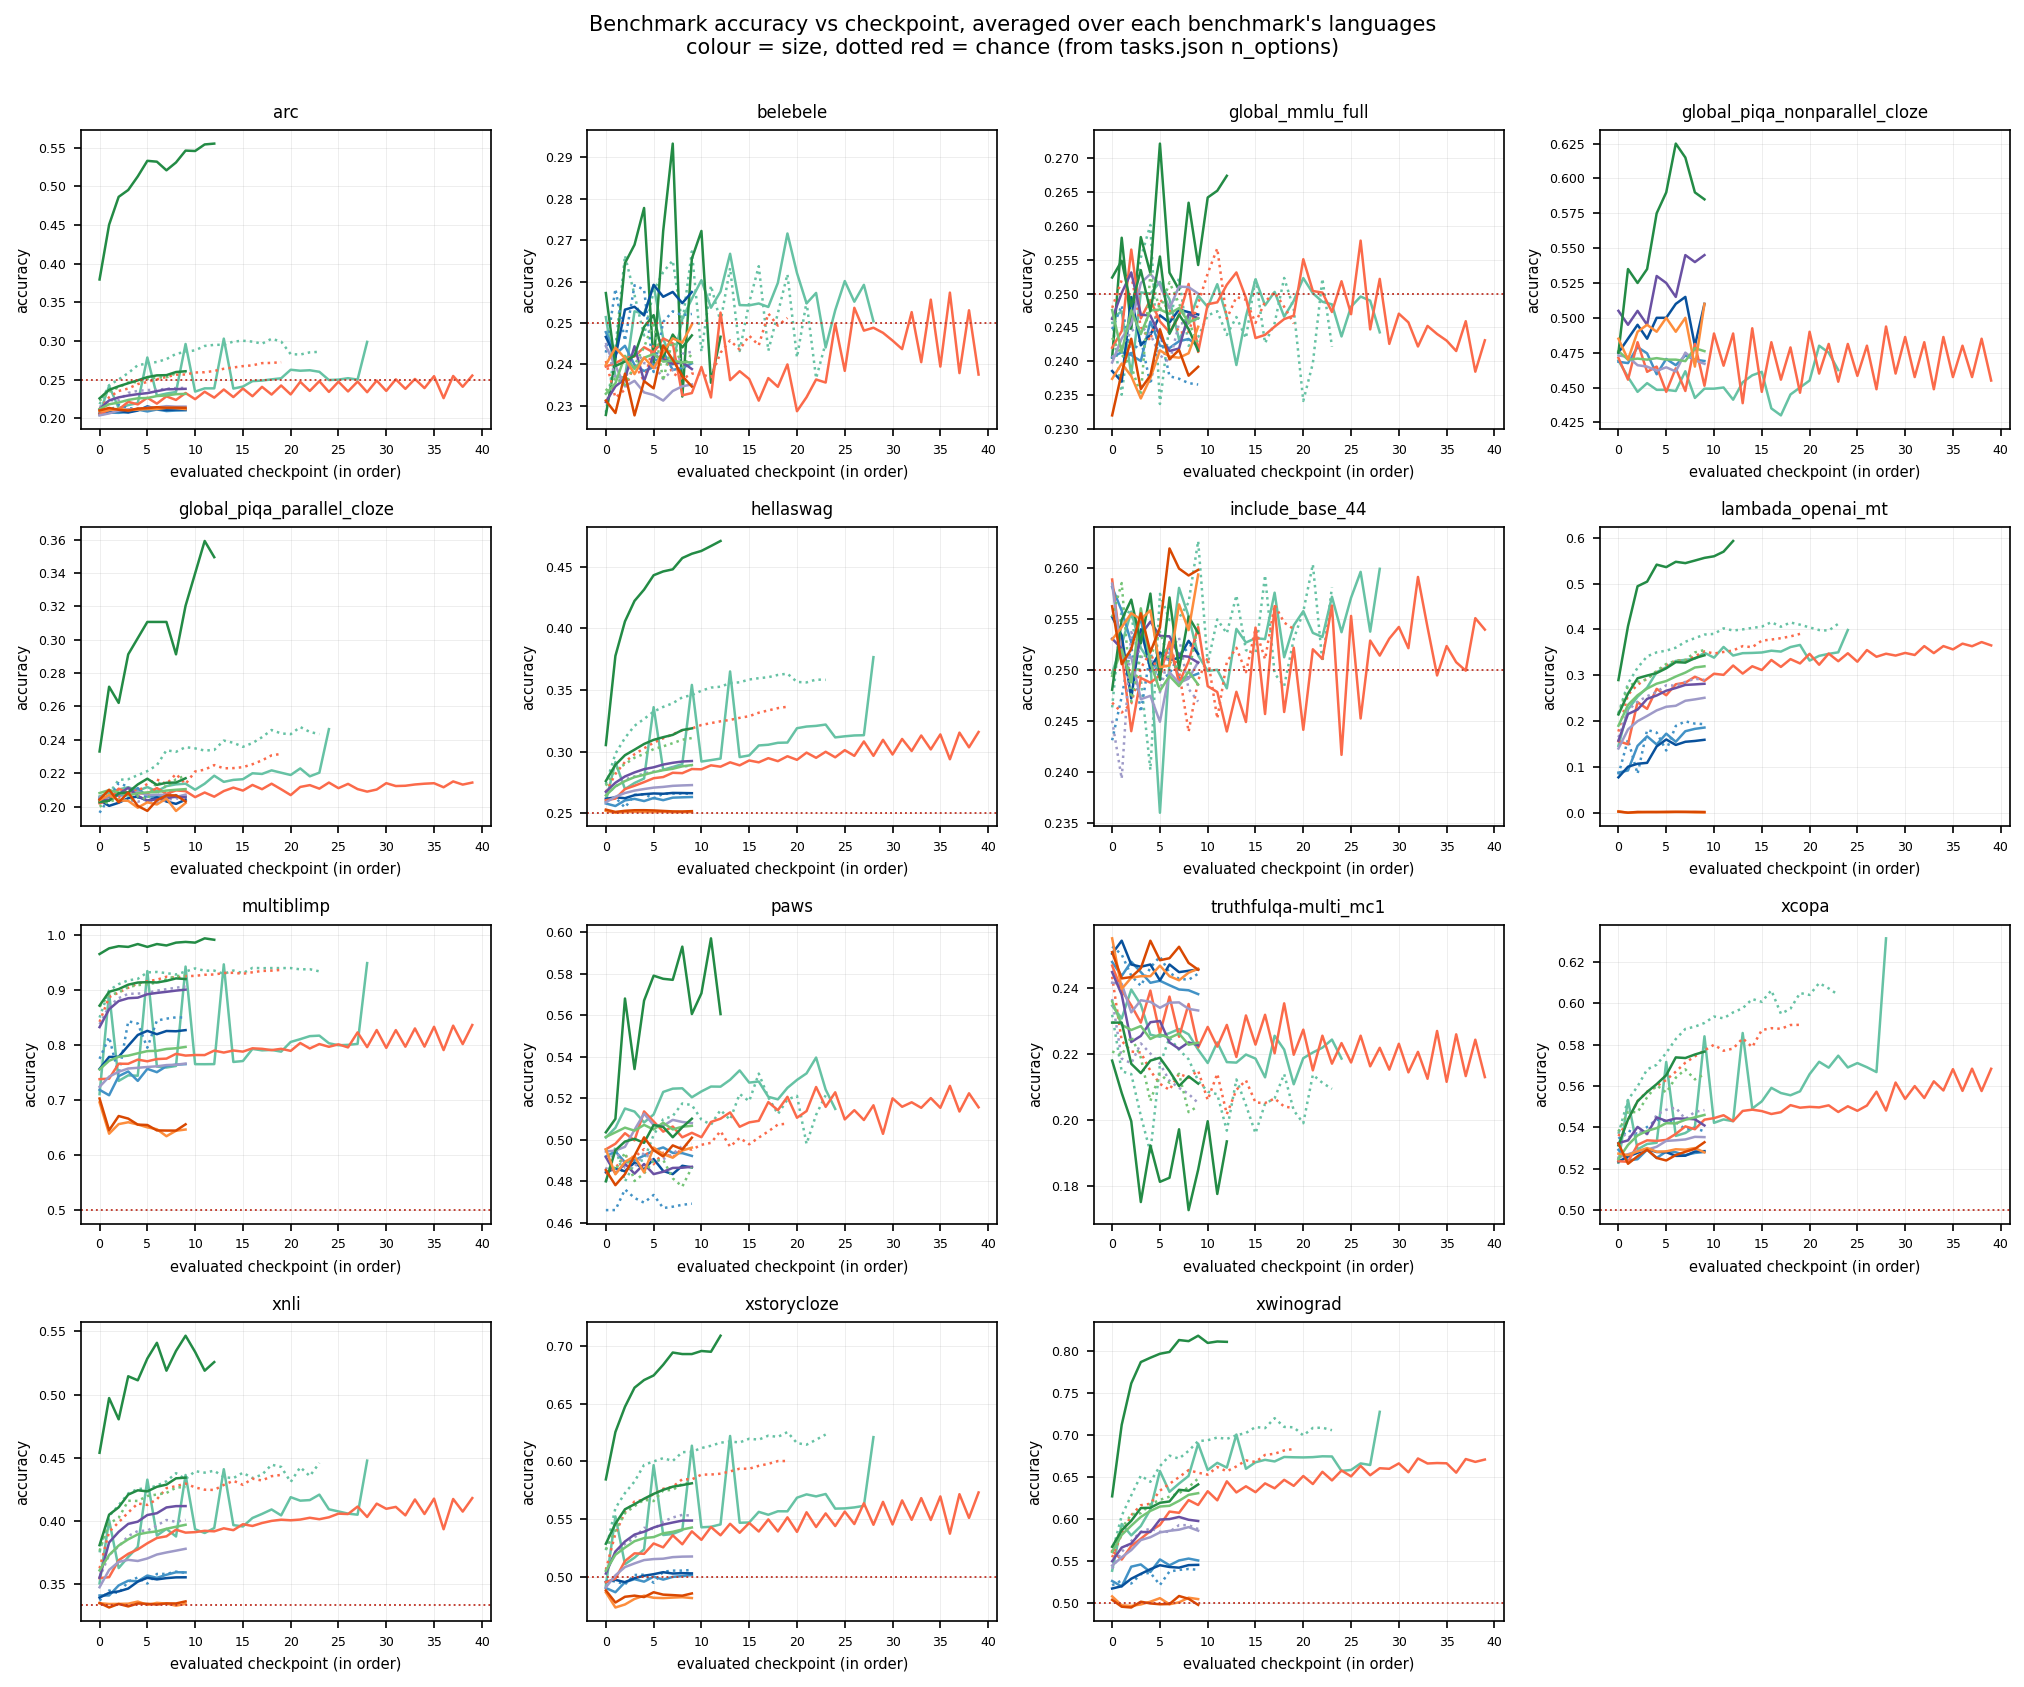
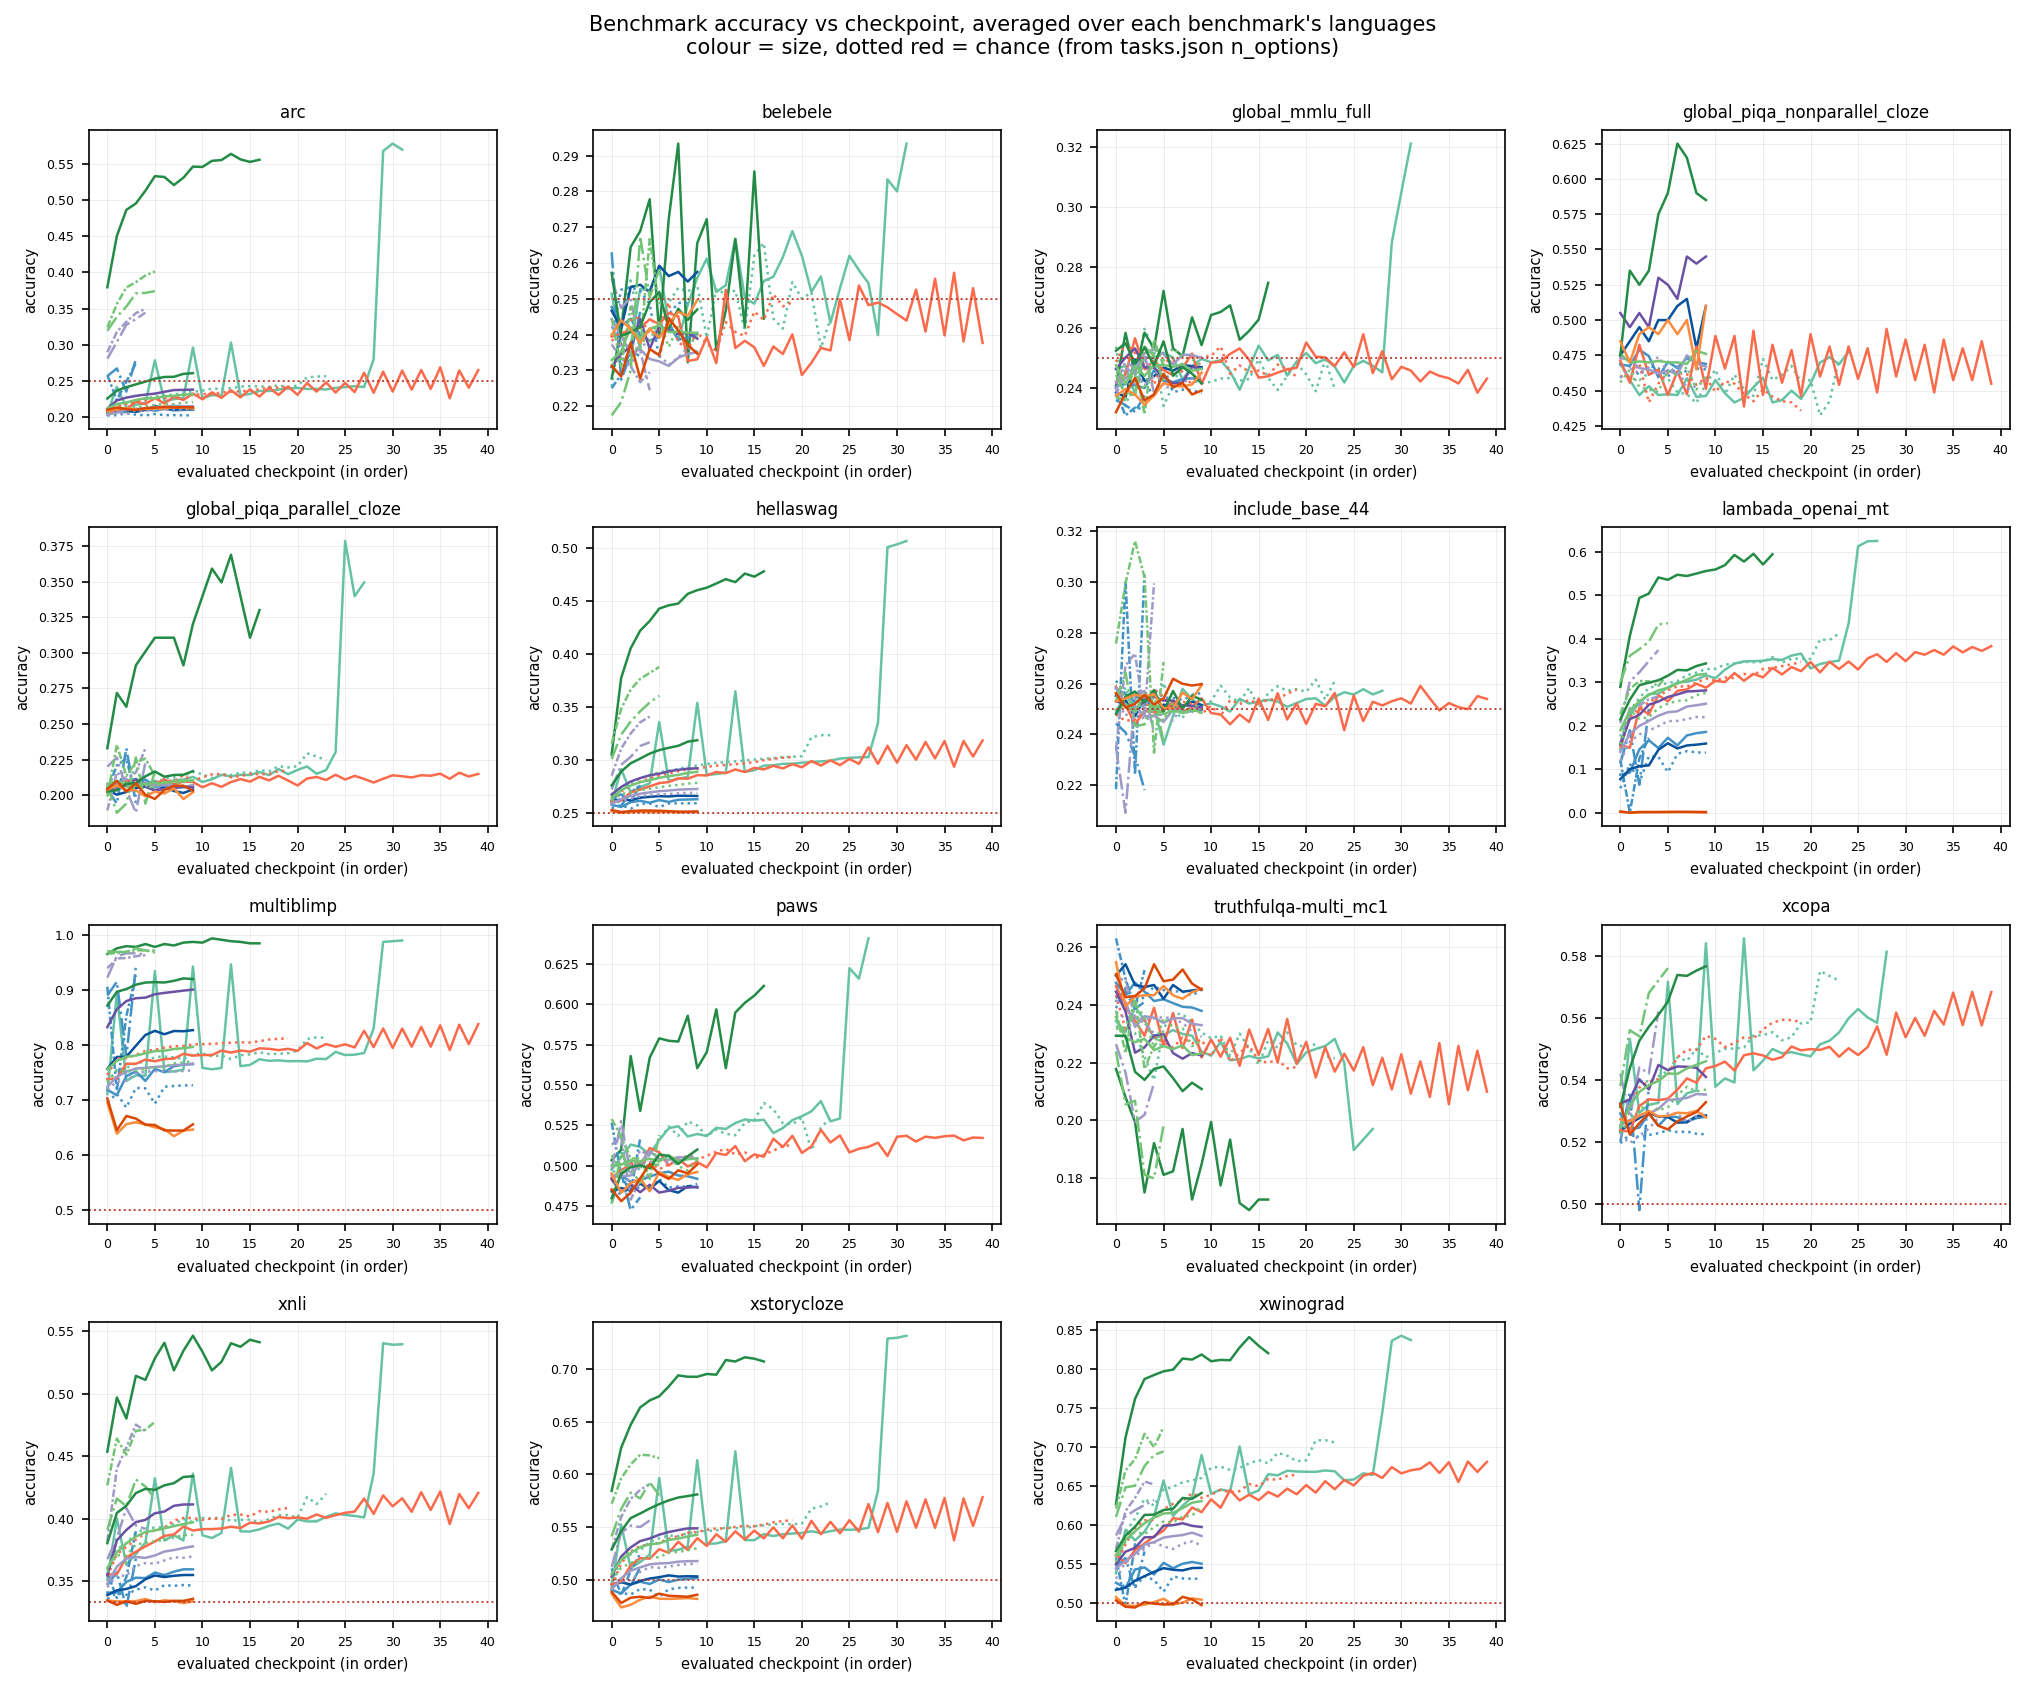
update progress

diff --git a/plan/todos/status-09-11.md b/plan/todos/status-09-11.md
@@ -6,7 +6,8 @@ Download missing GL tasks:
 ✅ python3.11 evals/scripts/download_eval_datasets.py
 
 Resubmit with --all-languages:
-python3.11 auto_evals_cscs.py --arch deep --scheme A --seed 1904 --all-languages
+✅ python3.11 pretrain/auto_evals_cscs.py --arch deep --scheme A --seed 1904 --all-languages
+✅ python3.11 pretrain/auto_evals_cscs.py --arch deep --scheme B --seed 1904 --all-languages
 squeue --me -h -o '%i|%j' | awk -F'|' '$2 ~ /90M/ {print $1}' | xargs -r scancel
 
 Cancel requeued jobs for ZH and ES since they are built:
@@ -16,20 +17,36 @@ Launch 175M-600M pretraining of ZH and ES:
 ✅ python3.11 pretrain/launch_trainings.py cscs --size 175M,350M,600M --scheme ZH
 ✅ python3.11 pretrain/launch_trainings.py cscs --size 175M,350M,600M --scheme ES
 
+Resume 1.7B deep models and start training of shallow models:
+✅ python3.11 pretrain/launch_trainings.py cscs --size 1.7B --arch deep --dry-run
+✅ python3.11 pretrain/launch_trainings.py cscs --size 1.7B --arch shallow --dry-run
+
 eval new ckpts as they are available:
-python3.11 pretrain/auto_evals_cscs.py --watch 1200
-bash evals/scripts/launch_bpb.sh
+✅ python3.11 pretrain/auto_evals_cscs.py --watch 1200
+✅ bash evals/scripts/launch_bpb.sh
 python3.11 pretrain/auto_evals_cscs.py --retry-held
 
+evening:
+8x 1.7B (21 nodes):
+✅ cd Projects/snr-multilingual/ && bash scripts/reservation_drain.sh --priority build --max-nodes 50 --interval 1800 --hours 72
+
 night:
-cd Projects/snr-multilingual/ && bash scripts/reservation_drain.sh --priority pretrain --max-nodes 65 --interval 43200 --hours 48
-cd Projects/snr-multilingual/ && bash scripts/reservation_drain.sh --priority eval --max-nodes 10
+✅ bash evals/scripts/launch_bpb.sh
+✅ python3.11 pretrain/launch_trainings.py cscs --scheme AT3 --dry-run
+✅ python3.11 pretrain/auto_evals_cscs.py --watch 1200
+✅ cd Projects/snr-multilingual/ && bash scripts/reservation_drain.sh --max-nodes 150 --interval 1800
+
+morning:
+python3.11 pretrain/ladder_report.py --plot --publish --push-hf --push-git
+sbatch scripts/mirror_eval_logs.sbatch 
 
 - Refit evals
 - Reeval after worker implementation
 - Add language-specific tasks
 - Change eval QA format
-- Generate the INCLUDE v2 MC-format tasks and wire them.
-- Switch or drop LAMBADA-MT.
+- Generate the INCLUDE v2 MC-format tasks and wire them
+- Switch or drop LAMBADA-MT
 - Get the changes from pretrain-eval-azure in local branch (pull --rebase)
 - Implement flops params?
+- Write methodology
+- Consider models needed language interference study

diff --git a/src/pretrain/ladder_report.md b/src/pretrain/ladder_report.md
@@ -73,7 +73,7 @@
 | -------------- | ----: | -----------: | ----------: | ---------------: |
 | seed | 18 | -0.061 .. +0.046 | -0.050 .. +0.034 | -0.010 .. +0.040 |
 | arch | 13 | -1.074 .. +0.259 | -8.159 .. +0.084 | -0.011 .. +0.035 |
-| scheme | 9 | -0.077 .. +0.025 | -0.014 .. +0.103 | -0.012 .. +0.011 |
+| scheme | 9 | -0.077 .. +0.025 | -0.014 .. +0.103 | -0.010 .. +0.007 |
 
 **Read this against the `seed` row.** A transformation whose effect is no larger than re-rolling the seed is not a distinct model for SNR — it is the same model measured twice. An em dash means no matched pair exists yet.
 
